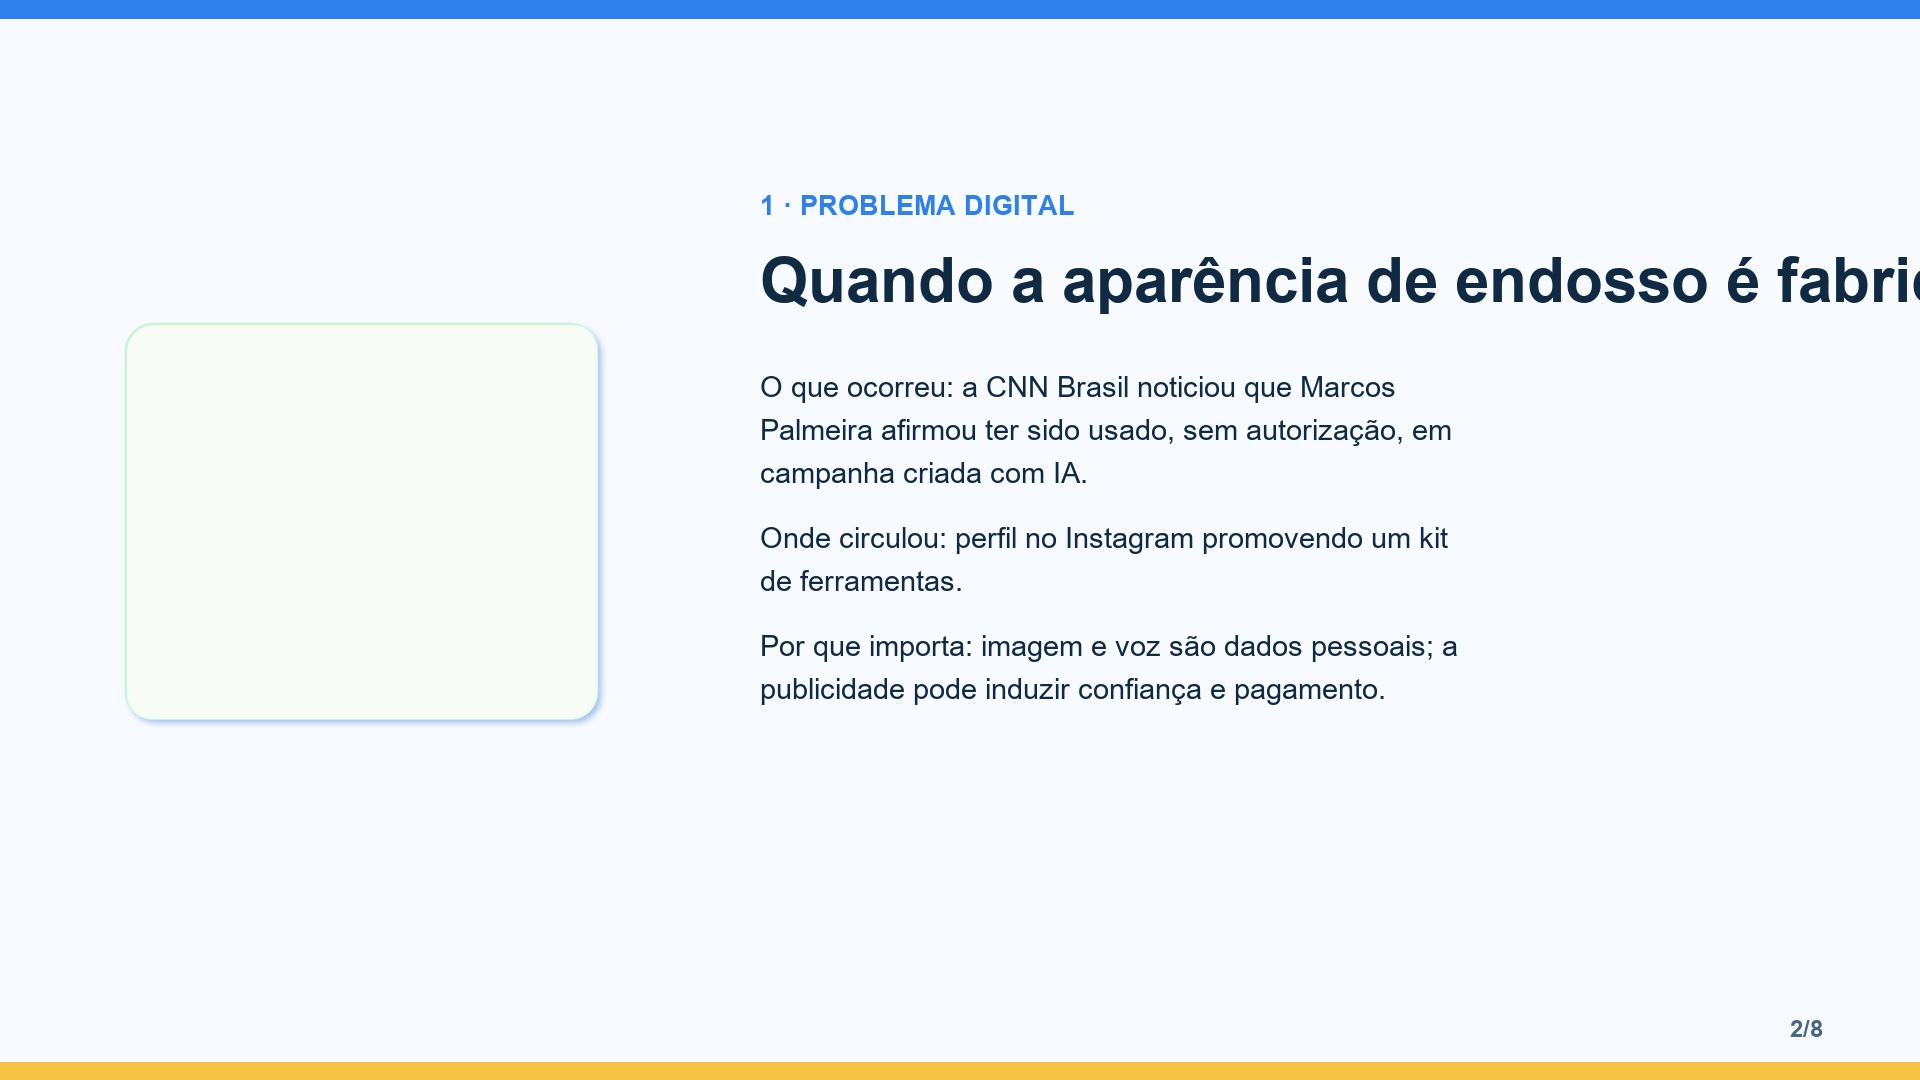
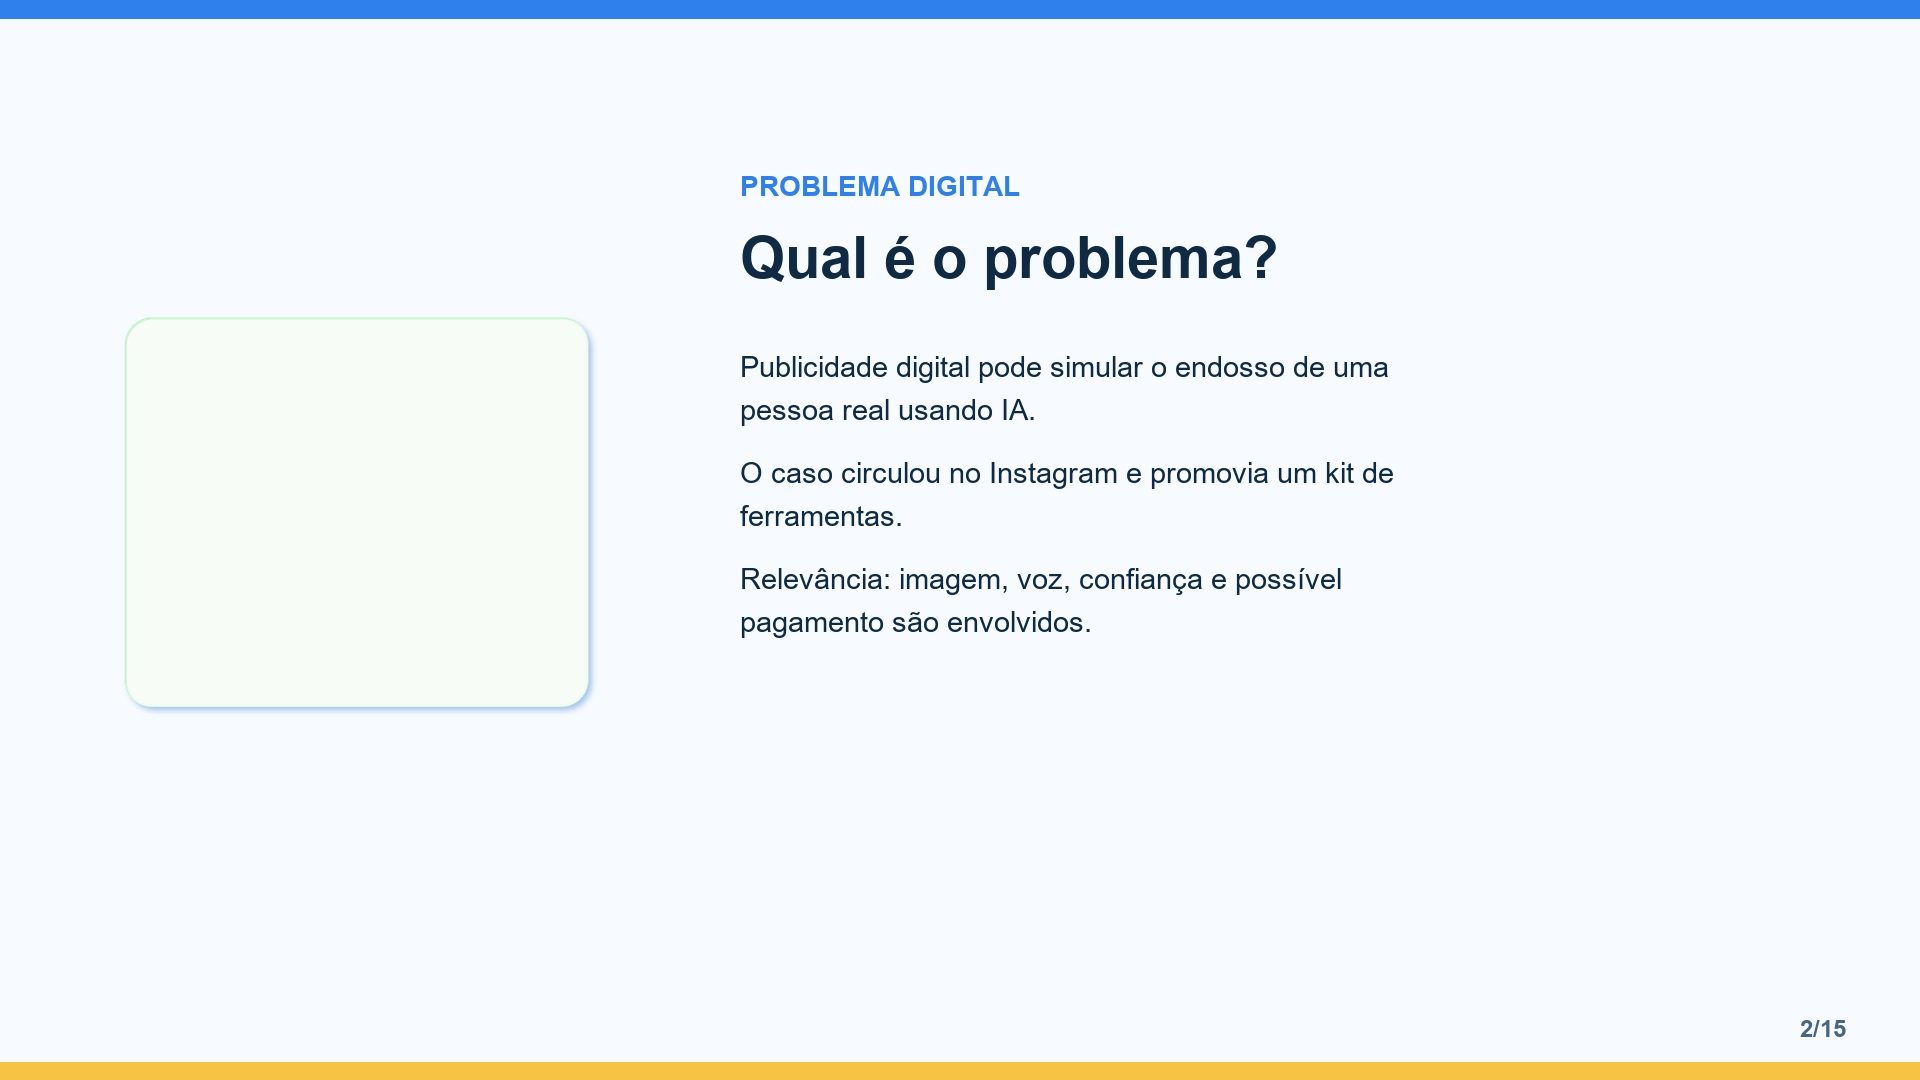
feat: alinhar slides jpg ao roteiro n3

diff --git a/index.html b/index.html
@@ -1,1 +1,1 @@
-<!doctype html><html lang="pt-BR"><head><meta charset="utf-8"><meta name="viewport" content="width=device-width,initial-scale=1"><meta name="description" content="Slides JPG da apresentação docente da Maratona Tech 2026."><title>Maratona Tech 2026 — Slides JPG</title><style>:root{--bg:#dfeaf4;--ink:#102a43}*{box-sizing:border-box}body{margin:0;background:var(--bg);color:var(--ink);font:16px/1.5 system-ui,Arial,sans-serif}.deck{display:flex;flex-direction:column;align-items:center;gap:2rem;padding:2rem 1rem}.slide{width:min(100%,1200px);aspect-ratio:16/9;object-fit:contain;display:block;background:#fff;box-shadow:0 10px 30px #102a4330;border-radius:8px}.sr-only{position:absolute;width:1px;height:1px;padding:0;margin:-1px;overflow:hidden;clip:rect(0,0,0,0);white-space:nowrap;border:0}@media(max-width:700px){.deck{padding:.5rem;gap:1rem}.slide{border-radius:3px}}@media print{.deck{padding:0;gap:0}.slide{width:100%;border-radius:0;box-shadow:none;break-after:page}}</style></head><body><main class="deck" aria-label="Apresentação em slides JPG"><h1 class="sr-only">Maratona Tech 2026 — Deepfake em publicidade</h1><img class="slide" src="slides/slide-01.jpg" alt="Slide 1: capa e título Deepfake em publicidade, caso Marcos Palmeira"><img class="slide" src="slides/slide-02.jpg" alt="Slide 2: problema digital e circulação do caso"><img class="slide" src="slides/slide-03.jpg" alt="Slide 3: análise do artefato e limites da evidência"><img class="slide" src="slides/slide-04.jpg" alt="Slide 4: sinais de alerta e ação de proteção"><img class="slide" src="slides/slide-05.jpg" alt="Slide 5: causa-raiz e riscos sociais"><img class="slide" src="slides/slide-06.jpg" alt="Slide 6: recomendações públicas e campanha"><img class="slide" src="slides/slide-07.jpg" alt="Slide 7: organização do grupo"><img class="slide" src="slides/slide-08.jpg" alt="Slide 8: conclusão e referências"></main></body></html>
+<!doctype html><html lang="pt-BR"><head><meta charset="utf-8"><meta name="viewport" content="width=device-width,initial-scale=1"><meta name="description" content="Apresentação JPG N3 da Maratona Tech 2026."><title>Maratona Tech 2026 — Deepfake em publicidade</title><style>:root{--bg:#dfeaf4;--ink:#102a43}*{box-sizing:border-box}body{margin:0;background:var(--bg);font:16px/1.5 system-ui,Arial,sans-serif}.deck{display:flex;flex-direction:column;align-items:center;gap:2rem;padding:2rem 1rem}.slide{width:min(100%,1200px);aspect-ratio:16/9;object-fit:contain;display:block;background:#fff;border-radius:8px;box-shadow:0 10px 30px #102a4330}@media(max-width:700px){.deck{padding:.5rem;gap:1rem}.slide{border-radius:3px}}@media print{.deck{padding:0;gap:0}.slide{width:100%;border-radius:0;box-shadow:none;break-after:page}}</style></head><body><main class="deck" aria-label="15 slides JPG da apresentação N3"><img class="slide" src="slides/slide-01.jpg" alt="Slide 1: capa do projeto"><img class="slide" src="slides/slide-02.jpg" alt="Slide 2: problema digital"><img class="slide" src="slides/slide-03.jpg" alt="Slide 3: artefato digital analisado"><img class="slide" src="slides/slide-04.jpg" alt="Slide 4: perfil profissional"><img class="slide" src="slides/slide-05.jpg" alt="Slide 5: descrição do problema no relatório técnico"><img class="slide" src="slides/slide-06.jpg" alt="Slide 6: causa raiz"><img class="slide" src="slides/slide-07.jpg" alt="Slide 7: riscos sociais"><img class="slide" src="slides/slide-08.jpg" alt="Slide 8: fundamentação da análise"><img class="slide" src="slides/slide-09.jpg" alt="Slide 9: recomendações públicas"><img class="slide" src="slides/slide-10.jpg" alt="Slide 10: público e linguagem da campanha"><img class="slide" src="slides/slide-11.jpg" alt="Slide 11: explicação técnica simplificada"><img class="slide" src="slides/slide-12.jpg" alt="Slide 12: impactos sociais"><img class="slide" src="slides/slide-13.jpg" alt="Slide 13: peça visual da campanha"><img class="slide" src="slides/slide-14.jpg" alt="Slide 14: conclusão"><img class="slide" src="slides/slide-15.jpg" alt="Slide 15: referências"></main></body></html>

diff --git a/scripts/generate_n3_jpgs.py b/scripts/generate_n3_jpgs.py
@@ -1,0 +1,27 @@
+from pathlib import Path
+from PIL import Image,ImageDraw,ImageFont
+import textwrap
+R=Path(__file__).parents[1]; O=R/'slides'; A=R/'assets'; O.mkdir(exist_ok=True)
+F='/Windows/Fonts/arial.ttf'; B='/Windows/Fonts/arialbd.ttf'; font=lambda n,b=False:ImageFont.truetype(B if b else F,n)
+S=[
+('CAPA','Deepfake em publicidade',['Maratona Tech 2026 · Nível 3 · Exemplo docente','Caso brasileiro: uso não autorizado de imagem e voz sintética atribuído a Marcos Palmeira.'],'template-capa-002.png'),
+('PROBLEMA DIGITAL','Qual é o problema?',['Publicidade digital pode simular o endosso de uma pessoa real usando IA.','O caso circulou no Instagram e promovia um kit de ferramentas.','Relevância: imagem, voz, confiança e possível pagamento são envolvidos.'],'template-problema-001.png'),
+('ARTEFATO DIGITAL','O conteúdo analisado',['Reconstituição esquemática baseada na reportagem: vídeo com imagem prévia do ator + voz sintética + oferta comercial.','A reportagem da CNN Brasil é a evidência disponível; o arquivo original do anúncio não foi recuperado.','Não é possível afirmar hash, metadados, autoria ou perícia quadro a quadro.'],'template-artefato-001.png'),
+('PERFIL PROFISSIONAL','Quem pode ajudar?',['Jornalista de verificação e pesquisador de segurança digital: localizam a origem, comparam fontes, preservam evidências e explicam limites.','A atuação combina comunicação, pensamento computacional, proteção de dados e responsabilidade pública.'],'template-icones-ilustracoes-003.png'),
+('RELATÓRIO TÉCNICO · 1','Descrição do problema digital',['O ator afirmou à CNN Brasil que sua imagem foi usada sem autorização em um golpe publicitário com IA.','Onde: perfil no Instagram. Quem foi impactado primeiro: o titular da imagem e usuários expostos ao anúncio.','Fonte: CNN Brasil, 08 jun. 2024.'],'template-problema-002.png'),
+('RELATÓRIO TÉCNICO · 2','Identificação da causa-raiz',['Causa-raiz provável: combinação de mídia sintética, identidade pública reutilizável, distribuição algorítmica e incentivo econômico ao clique.','Fatores do modelo N3: uso indevido de IA, busca por engajamento, falta de verificação e desinformação intencional.','Autoria do golpe permanece hipótese.'],'template-icones-ilustracoes-002.png'),
+('RELATÓRIO TÉCNICO · 3','Diagnóstico dos riscos sociais',['Informacional: fala inexistente parece autêntica.','Econômico: usuário pode pagar ou fornecer dados.','Emocional: confiança e urgência reduzem a checagem.','Coletivo: enfraquece a confiança em imagens e vozes como evidência.'],'template-problema-003.png'),
+('RELATÓRIO TÉCNICO · 4','Fundamentação da análise',['Dados pessoais: imagem e voz identificáveis.','Conceitos: deepfake, alteração intencional, algoritmo, rastro digital e desinformação ampliada.','Base: Mirsky e Lee (2021); Vaccari e Chadwick (2020); Rößler et al. (2019); LGPD (Brasil, 2018).'],'template-icones-ilustracoes-004.png'),
+('RELATÓRIO TÉCNICO · 5','Recomendações públicas',['Usuário: não pagar nem informar dados; confirmar em canal oficial; guardar URL e denunciar.','Escola: ensinar triangulação, cadeia de evidências e proteção da imagem/voz.','Plataforma: revisar anúncios, preservar evidências, rotular mídia sintética e responder às denúncias.'],'template-campanha-001.png'),
+('CAMPANHA · 1','Público e linguagem',['Público: estudantes, famílias e comunidade escolar.','Linguagem: direta, não sensacionalista, visual e acessível.','Mensagem central: rosto conhecido não é prova de autorização.'],'template-capa-001.png'),
+('CAMPANHA · 2','Explicação técnica simplificada',['Deepfake é conteúdo audiovisual alterado ou criado com IA para parecer que uma pessoa disse ou fez algo.','No caso, a aparência de fala foi associada a uma oferta comercial que o ator declarou não ter autorizado.'],'template-artefato-001.png'),
+('CAMPANHA · 3','Impactos destacados',['Fraude econômica, coleta indevida de dados, desinformação e perda de confiança.','A campanha orienta sem culpar vítimas e sem expor dados pessoais.'],'template-problema-001.png'),
+('CAMPANHA · 4','Peça visual da campanha',['PARE · CONFIRME · DENUNCIE','1. Pause antes de clicar. 2. Confirme no canal oficial. 3. Não forneça dados. 4. Denuncie e preserve o link.','Arte visual criada para este exemplo docente; não é anúncio real.'],'template-campanha-001.png'),
+('CONCLUSÃO','Aprendizados principais',['Fato, evidência, inferência e hipótese precisam ser separados.','Imagem e voz podem ser reutilizadas para fabricar autoridade.','A resposta mais segura é confirmação independente antes de compartilhar ou pagar.'],'template-capa-002.png'),
+('REFERÊNCIAS','Fontes utilizadas',['CNN BRASIL (2024). Marcos Palmeira: rosto do ator é usado com IA em golpe no Instagram.','MIRSKY; LEE (2021). The creation and detection of deepfakes. ACM Computing Surveys.','VACCARI; CHADWICK (2020). Deepfakes and disinformation. Social Media + Society.','BRASIL (2018). Lei Geral de Proteção de Dados. Lista completa: docs/fichamento-caso.md.'],'template-icones-ilustracoes-005.png')]
+for i,(k,t,ps,img) in enumerate(S,1):
+ im=Image.new('RGB',(1920,1080),(247,251,255));d=ImageDraw.Draw(im);d.rectangle((0,0,1920,18),fill=(47,128,237));d.rectangle((0,1062,1920,1080),fill=(246,195,68));a=Image.open(A/img).convert('RGBA');a.thumbnail((500,500));im.paste(a,(110,280),a);d.text((740,170),k,font=font(28,1),fill=(47,128,237));d.text((740,225),t,font=font(58,1),fill=(16,42,67));y=350
+ for p in ps:
+  for line in textwrap.wrap(p,52):d.text((740,y),line,font=font(29),fill=(16,42,67));y+=43
+  y+=20
+ d.text((1800,1015),f'{i}/15',font=font(24,1),fill=(72,102,129));im.save(O/f'slide-{i:02d}.jpg',quality=94,optimize=True)

diff --git a/docs/requisitos-n3.md b/docs/requisitos-n3.md
@@ -2,11 +2,10 @@
 
 | Requisito | Local no material | Implementação |
 |---|---:|---|
-| Problema, circulação e relevância | Estudante, p. 46 | Slide 2 |
-| Artefato, alertas, dados e dilema | Estudante, p. 46 | Slide 3 |
-| Jogo de erros e ação de proteção | Estudante, p. 46 | Slide 4 |
-| Causa, dados, algoritmos e conscientização | Estudante, p. 46 | Slide 5 |
-| Causa-raiz, impactos, recomendações e campanha | Estudante, pp. 40–43, 46 | Slide 6 |
-| Organização do grupo | Estudante, p. 46 | Slide 7 |
-| Aprendizagens, desafios e conclusão | Estudante, pp. 46–48 | Slide 8 |
+| Problema, circulação e relevância | Estudante, p. 46; PPTX, slide 5 | Slides 2–3 |
+| Artefato e perfil profissional | PPTX, slides 6 e 8 | Slides 3–4 |
+| Relatório técnico: descrição, causa, riscos, fundamentação e recomendações | Estudante, pp. 40–41; PPTX, slides 24–28 | Slides 5–9 |
+| Campanha: público, explicação, impactos, recomendações e peça visual | Estudante, pp. 42–43; PPTX, slides 29–32 | Slides 10–13 |
+| Organização do grupo | Estudante, p. 46 | Integrada no exemplo docente |
+| Aprendizagens e referências | Estudante, pp. 46–48; PPTX, slides 33–34 | Slides 14–15 |
 | Âmbito macrossocial no Brasil | Estudante, pp. 36–39 | Slides 2, 5 e 6 |

diff --git a/issues/007-matriz-pptx-n3.md b/issues/007-matriz-pptx-n3.md
@@ -1,0 +1,11 @@
+# Adequar quantidade e ordem ao modelo N3
+
+## Objetivo
+Mapear os slides específicos do N3 no PPTX e garantir que o artefato visual, relatório técnico e campanha apareçam como conteúdos, não como ornamentos.
+
+## Critérios de aceite
+- 15 JPGs em ordem didática.
+- Slides 2–4 cobrem problema, artefato e profissional.
+- Slides 5–9 cobrem os cinco blocos do relatório técnico.
+- Slides 10–13 cobrem os quatro blocos da campanha.
+- Slides 14–15 encerram com conclusão e referências.
